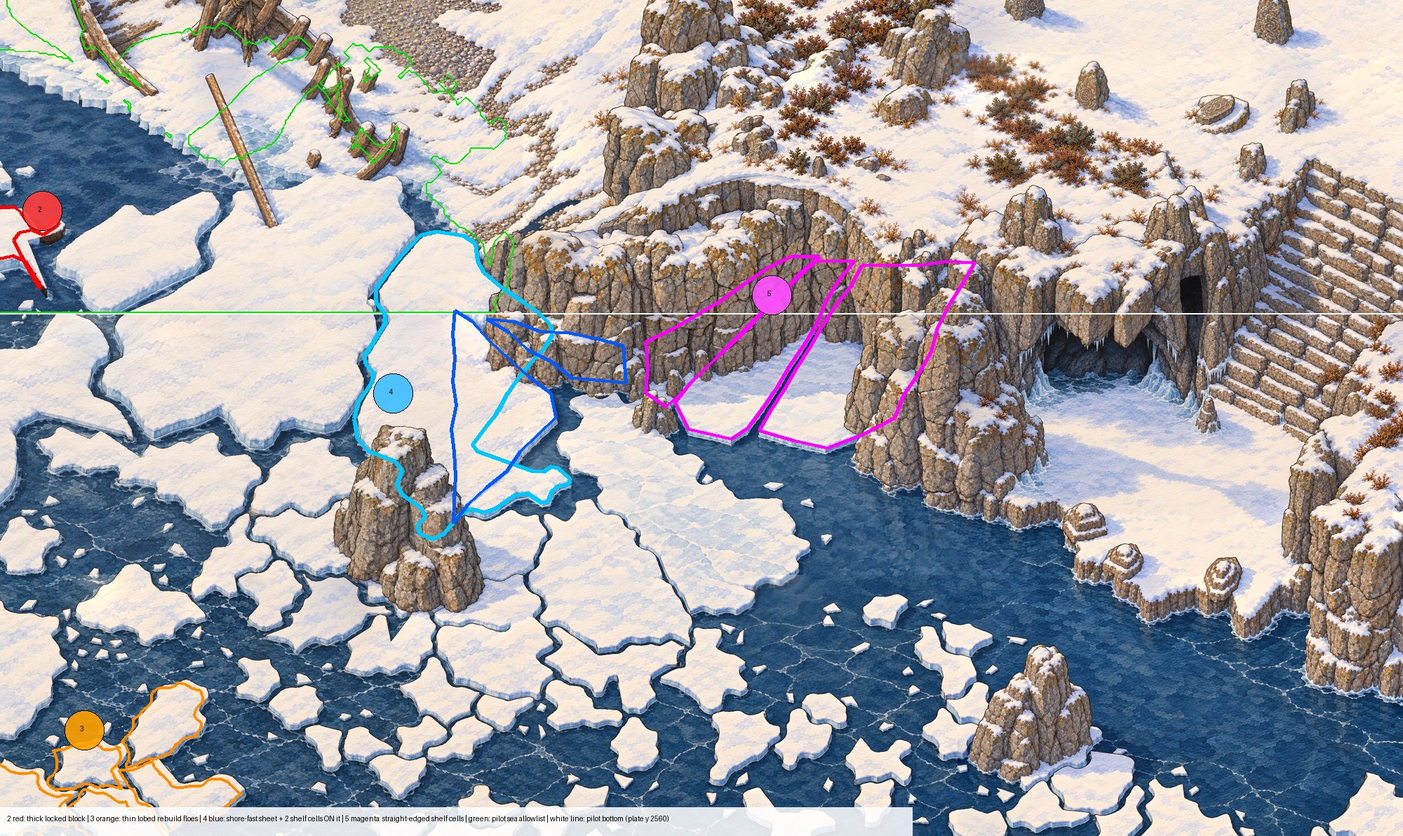
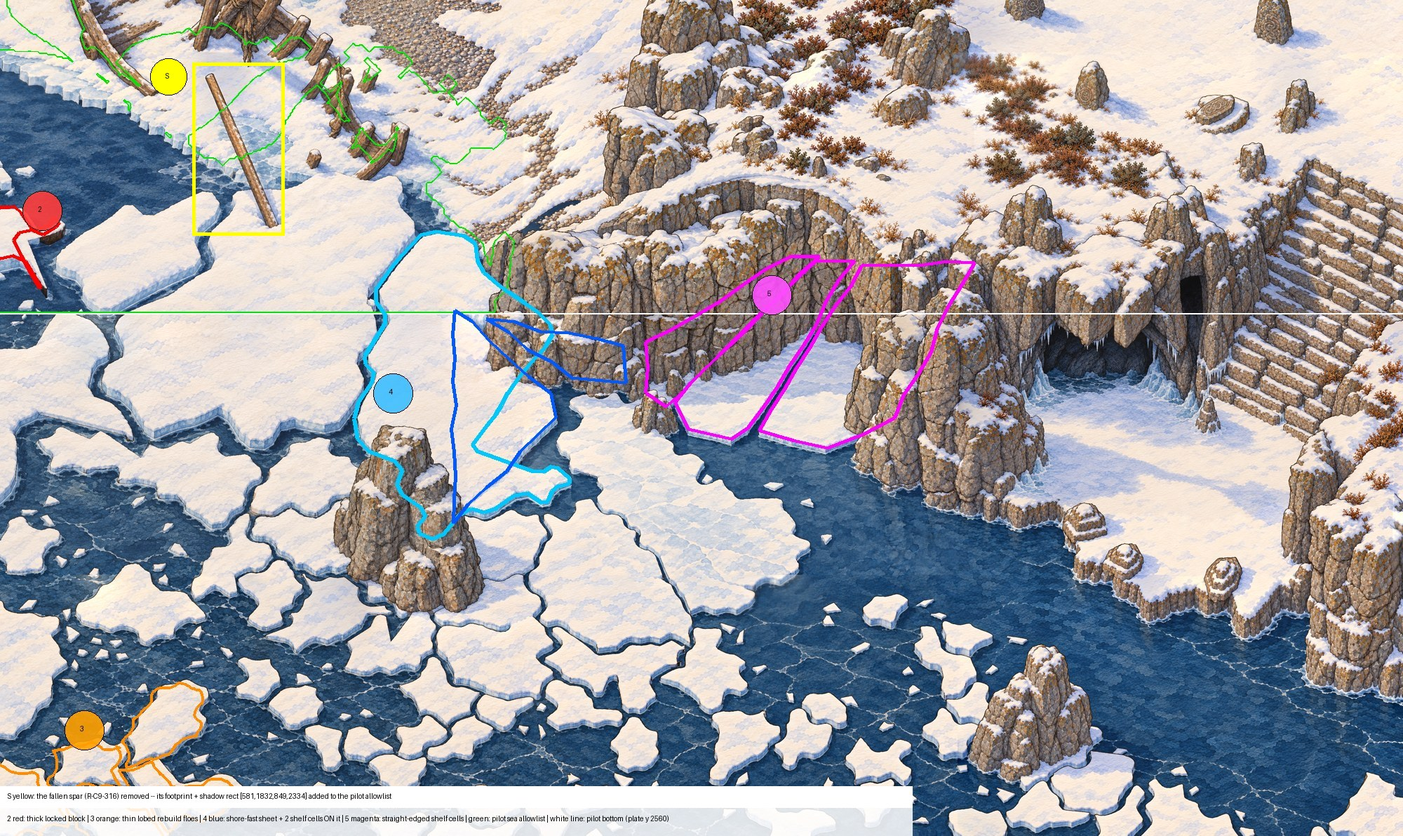
drax(C-9 P2 BV2F LV, R-C9-316): the wreck's fallen spar removed (one mast; the snapped stub stays); its footprint + shadow measured against PT's pinned 023686e3c renders -> allowlist rect [581,1832,849,2334] (pilot 0_2), on the sea map; gates PASS
Claude-Session: https://claude.ai/code/session_01Synmhf8YqWSEU9Kpsm5JJK

Changed region(s): [[0.0, 0.932, 0.651, 0.9941], [0.093, 0.0621, 0.217, 0.3107]]

diff --git a/astra_test_01/burst/runs/C-9/barrow_v2/fid/lv/tools/make_bv2art.py b/astra_test_01/burst/runs/C-9/barrow_v2/fid/lv/tools/make_bv2art.py
@@ -1575,8 +1575,7 @@ def main():
         {"type": "beam", "a": [round(foot_[0], 3), round(-foot_[1], 3), round(z_foot, 3)],
          "b": [round(top_[0], 3), round(-top_[1], 3), round(z_foot + m_len * math.cos(m_lean), 3)], "thickness_m": 0.38, "procedural": "log", "glb": None,
          "what": "the mast stub, snapped ~%.1f m above the ice" % (z_foot + m_len * math.cos(m_lean) - ICE_TOP)},
-        {"type": "beam", "a": wpt(0.6, 1.6, z=ICE_TOP + 1.5), "b": wpt(4.6, 4.4, lift=0.12), "thickness_m": 0.24, "procedural": "log", "glb": None,
-         "what": "the fallen spar (yard), from the gunwale down onto the ice"},
+        # R-C9-316 (Matt: "Viking ships had only one mast"): the fallen spar/pole is REMOVED; the snapped mast stub stays
         ]
     group("wreck_mast", "debris", mast_beams)
     # -- the barrow front (N): its door threshold at the sketch's door, facing the camera

diff --git a/astra_test_01/burst/runs/C-9/barrow_v2/fid/RESUME_LV.md b/astra_test_01/burst/runs/C-9/barrow_v2/fid/RESUME_LV.md
@@ -311,3 +311,4 @@ WORKING TREE NOTE: `make_bv2art.py` carries UNCOMMITTED R-C9-285 edits (all rims
 
 ## R-C9-314 SEA FIX -- STEP 1 MAP (rebuild waits for the conductor's go)
 Matt's crop registered on pt/ph3/final/painting_ph3_full.png by NCC (0.82): crop px = (plate - (20.4, 1649)) / 2.041. Map `lv/M1pp/sea314_map.jpg`, record `lv/art/sea314_map.json`; new pilot allowlist = MASK `lv/art/pilot_sea_allow_314.png` (pinned 023686e3c class render's sea/shore_ice/lead in the open sea, +24 px; 10.1 % of the pilot; bbox [0,1393,1518,2560]). Items: 2 = locked ice_plates #1 (thick block); 3 = rebuild floes_bob #19/20/21/23 + floes #23 (thin lobed); 4 = locked shorefast #0 with locked cove_ice #0/#3 ON it; 5 = straight-edged locked cove_ice #1/#2/#4 (+ #0's long edges). Freeboards: locked pilot ice 0.24-0.53 m (rubble 0.72-1.94), rebuild 0.10-0.35 m.
+- R-C9-316: the fallen spar removed from `wreck_mast` (the snapped mast stub stays). Measured by re-rendering vs PT's pinned 023686e3c guide/class/ids: only guide bbox [603,1854,827,2312] changed (27,724 px); allowlist rect [581,1832,849,2334] (pilot 0_2). Gates: walk PASS, check (a) PASS, P6' PASS, fit 1.0001, ice proof PASS. R-C9-315 W1/W2 traced to guide causes (pale flat ground ice by the stern; the cave's tide_ice ledge), fixes proposed in art/sea314_map.json.

diff --git a/astra_test_01/burst/runs/C-9/barrow_v2/fid/lv/guide_art/check_a.md b/astra_test_01/burst/runs/C-9/barrow_v2/fid/lv/guide_art/check_a.md
@@ -1,6 +1,6 @@
 | Opening (anchor) | Probe | Faces camera | Visible m² | % of unoccluded | Frontal m² | % of frontal | |
 |---|---|---|---|---|---|---|---|
-| wreck_hull (W) | h_rect | yes | 9.82 | 64.9 | 18.9 | 51.8 | PASS |
+| wreck_hull (W) | h_rect | yes | 9.89 | 65.4 | 18.9 | 52.2 | PASS |
 | barrow_door (N) | v | yes | 7.87 | 100.0 | 13.1 | 60.1 | PASS |
 | hall_great_door (E) | v | yes | 3.22 | 100.0 | 7.0 | 45.6 | PASS |
 | gable_breach (SE) | h_rect | yes | 10.83 | 84.8 | 16.0 | 67.7 | PASS |
